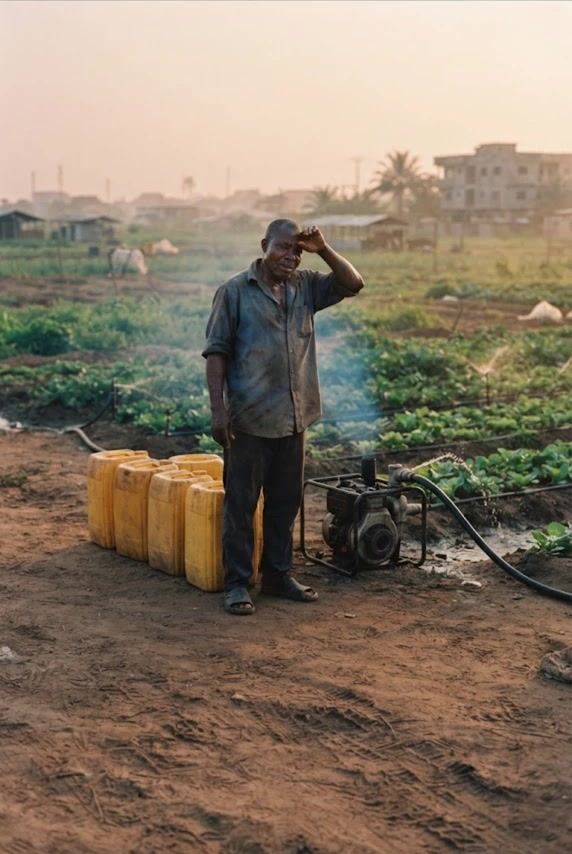
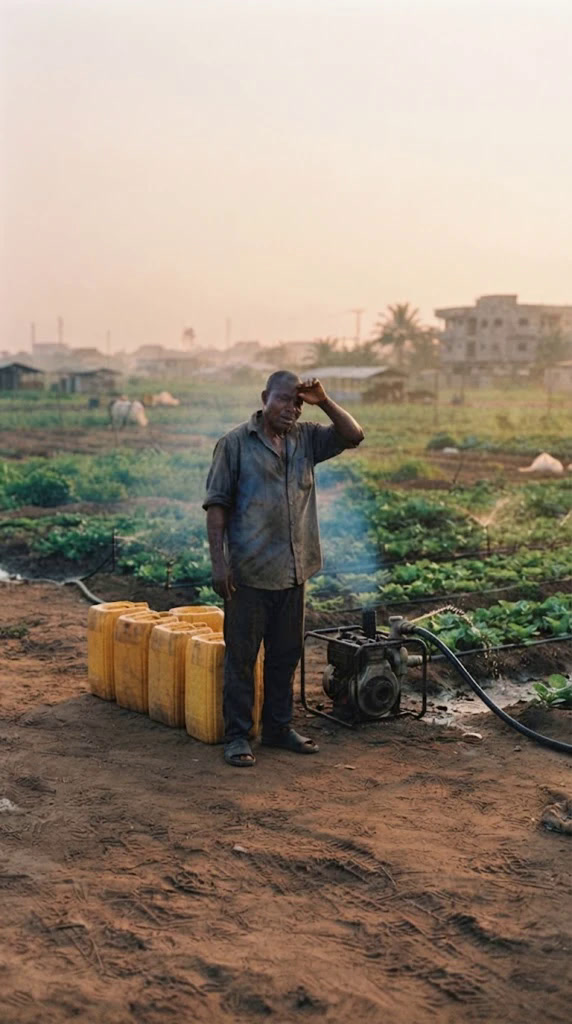
GroSolar: animatic v2 with every keyframe, safe-zone check, sign-off request
Ingest batch 3 (#6, #20, #21 fixes); old versions archived under
frames/gemini/original/. Add --safecheck to the renderer (text/UI vs the
TikTok/Reels zones, sampled every 0.1 s) and fix what it found: end-card
sizing and small print, phone height and drift at 1.9x, receipt entry path,
#16 super on one line. Board shows v2, all keyframes and the fixed frames.
Add SIGNOFF_REQUEST.md and animatic_v2_vo.srt.

Claude-Session: https://claude.ai/code/session_01JNp12VsUA157dhJM7Ds1Zv

diff --git a/projects/grosolar-switch-off/style-frames/index.html b/projects/grosolar-switch-off/style-frames/index.html
@@ -79,6 +79,11 @@ section.act { display: grid; gap: 16px; }
 .anim-notes { display: grid; gap: 10px; font-size: 14px; color: var(--muted); max-width: 62ch; min-width: 0; }
 .anim-notes p { margin: 0; }
 .anim-notes b { color: var(--ink); }
+.kf { display: grid; grid-template-columns: repeat(auto-fill, minmax(92px, 1fr)); gap: 10px; }
+.kf figure { margin: 0; display: grid; gap: 4px; min-width: 0; }
+.kf img { width: 100%; max-width: 100%; aspect-ratio: 9 / 16; object-fit: cover; border-radius: 8px; display: block; background: #0A1424; }
+.kf figcaption { font-size: 12px; color: var(--muted); font-variant-numeric: tabular-nums; }
+.kf figcaption b { color: var(--ink); }
 @media (max-width: 640px) { .anim-row { grid-template-columns: 1fr; } .anim-row video { max-width: 320px; } }
 .stages { list-style: none; margin: 0; padding: 0; display: grid; grid-template-columns: repeat(auto-fit, minmax(190px, 1fr)); gap: 10px; counter-reset: st; }
 .stages li { counter-increment: st; border: 1px solid var(--line); border-radius: 12px; padding: 12px 14px; display: grid; gap: 4px; align-content: start; min-width: 0; }
@@ -241,8 +246,8 @@ figcaption p { margin: 0; color: var(--muted); }
     <div class="chips">
       <span class="chip ok">Brand colours and wording from grosolar.co</span>
       <span class="chip tbc">Logo: placeholder until SVG arrives</span>
-      <span class="chip ok">Stage 3 · Animatic v1</span>
-      <span class="chip tbc">Files to resend: #1, #2, #4, #17, #18, #6, #20, #21</span>
+      <span class="chip ok">Stage 3 · Animatic v2, every keyframe in</span>
+      <span class="chip tbc">Awaiting GroSolar sign-off</span>
       <span class="chip tbc">Farm and factory: not yet confirmed as GroSolar customers</span>
 
     </div>
@@ -287,14 +292,36 @@ figcaption p { margin: 0; color: var(--muted); }
   </section>
 
   <section class="panel anim">
-    <h2>Animatic v1 · 60 s · 1080×1920 · 30 fps</h2>
+    <h2>Animatic v2 · 60 s · 1080×1920 · 30 fps</h2>
     <div class="anim-row">
-      <video controls playsinline preload="metadata" poster="animatic_v1_poster.jpg" src="animatic_v1.mp4" aria-label="GroSolar Switch Off animatic v1"></video>
+      <video controls playsinline preload="metadata" poster="animatic_v2_poster.jpg" src="animatic_v2.mp4" aria-label="GroSolar Switch Off animatic v2"></video>
       <div class="anim-notes">
         <p><b>For GroSolar sign-off.</b> Gemini stills with slow Ken Burns moves, code-built screens and supers, and the VO and dialogue as on-screen captions (no voice yet). Before/after pairs share framing and moves, so the payoffs match-cut.</p>
-        <p><b>Still placeholders:</b> #1, #2, #4, #17, #18 (approved, files not received). <b>Old versions in use:</b> #6, #20, #21 (fixes approved, files not received).</p>
+        <p><b>Every keyframe is in.</b> No placeholders. All frames are Gemini's 572×1024 on-screen captures; full-size downloads replace them at sign-off.</p>
+        <p><b>Checks:</b> every caption, super, button and end-card line stays out of the TikTok/Reels zones (sampled every 0.1 s). The only exception is the fuel receipt for one frame as it's flicked off screen.</p>
         <p><b>Open for GroSolar:</b> farm and factory scenes, the WhatsApp number (marked TO CONFIRM on the end card), the logo SVG, and real app screens for #18.</p>
       </div>
+    </div>
+  </section>
+
+  <section class="panel">
+    <h2>All keyframes · Stage 2 complete (animatic quality)</h2>
+    <div class="kf">
+      <figure><img src="previews/kf/01.jpg" alt="Shot #1: Generator ON" loading="lazy"><figcaption><b>#1</b> 0:00 · Generator ON</figcaption></figure>
+      <figure><img src="previews/kf/02.jpg" alt="Shot #2: Switch off" loading="lazy"><figcaption><b>#2</b> 0:02 · Switch off</figcaption></figure>
+      <figure><img src="previews/kf/03.jpg" alt="Shot #3: Home, cut" loading="lazy"><figcaption><b>#3</b> 0:04 · Home, cut</figcaption></figure>
+      <figure><img src="previews/kf/04.jpg" alt="Shot #4: Compound" loading="lazy"><figcaption><b>#4</b> 0:06 · Compound</figcaption></figure>
+      <figure><img src="previews/kf/05.jpg" alt="Shot #5: Barbershop" loading="lazy"><figcaption><b>#5</b> 0:09 · Barbershop</figcaption></figure>
+      <figure><img src="previews/kf/06.jpg" alt="Shot #6: Farm" loading="lazy"><figcaption><b>#6</b> 0:11 · Farm</figcaption></figure>
+      <figure><img src="previews/kf/07.jpg" alt="Shot #7: Factory" loading="lazy"><figcaption><b>#7</b> 0:14 · Factory</figcaption></figure>
+      <figure><img src="previews/kf/09.jpg" alt="Shot #9: Too cost" loading="lazy"><figcaption><b>#9</b> 0:19 · Too cost</figcaption></figure>
+      <figure><img src="previews/kf/11b.jpg" alt="Shot #11–16: Phone plate" loading="lazy"><figcaption><b>#11–16</b> 0:24 · Phone plate</figcaption></figure>
+      <figure><img src="previews/kf/17.jpg" alt="Shot #17: Installation" loading="lazy"><figcaption><b>#17</b> 0:38 · Installation</figcaption></figure>
+      <figure><img src="previews/kf/18.jpg" alt="Shot #18: Activation" loading="lazy"><figcaption><b>#18</b> 0:41 · Activation</figcaption></figure>
+      <figure><img src="previews/kf/19.jpg" alt="Shot #19: Home, lit" loading="lazy"><figcaption><b>#19</b> 0:44 · Home, lit</figcaption></figure>
+      <figure><img src="previews/kf/20.jpg" alt="Shot #20: Barbershop" loading="lazy"><figcaption><b>#20</b> 0:46 · Barbershop</figcaption></figure>
+      <figure><img src="previews/kf/21.jpg" alt="Shot #21: Farm" loading="lazy"><figcaption><b>#21</b> 0:48 · Farm</figcaption></figure>
+      <figure><img src="previews/kf/22.jpg" alt="Shot #22: Factory" loading="lazy"><figcaption><b>#22</b> 0:51 · Factory</figcaption></figure>
     </div>
   </section>
 
@@ -305,14 +332,14 @@ figcaption p { margin: 0; color: var(--muted); }
 
       <figure class="card">
         <div class="frame">
-          <img class="shot" src="previews/01-generator.jpg" alt="Macro of a generator control panel with a glowing round switch">
-          <span class="lowres">Low-res preview</span>
+          <img class="shot" src="previews/kf/02.jpg" alt="Dad's hand flips the generator switch to OFF">
+          <span class="lowres">Gemini</span>
           <div class="shade-top"></div>
           <p class="super">What if you never had to switch it <em>on</em> again?</p>
           <div class="safe"></div>
         </div>
         <figcaption>
-          <div class="beat"><b>#1–2 · 0:00–0:04</b> Hook <span class="tag">AI draft</span></div>
+          <div class="beat"><b>#1–2 · 0:00–0:04</b> Hook <span class="tag gem">Gemini</span></div>
           <p>Roar, the hand flips the switch, dead silence, the line lands. The round switch is the object we carry through the film.</p>
         </figcaption>
       </figure>
@@ -349,8 +376,8 @@ figcaption p { margin: 0; color: var(--muted); }
 
       <figure class="card">
         <div class="frame">
-          <img class="shot" src="previews/gemini-06-farm-before.jpg" alt="Tired farmer beside yellow jerrycans and a smoking diesel water pump in a vegetable field">
-          <span class="lowres">Gemini draft · bars cropped</span>
+          <img class="shot" src="previews/kf/06.jpg" alt="Tired farmer beside yellow jerrycans and a smoking diesel water pump in a vegetable field">
+          <span class="lowres">Gemini · fixed</span>
           <div class="shade-top"></div>
           <p class="super">Diesel today.<br><em>Diesel tomorrow.</em></p>
           <span class="dram">Dramatisation</span>
@@ -358,7 +385,7 @@ figcaption p { margin: 0; color: var(--muted); }
         </div>
         <figcaption>
           <div class="beat"><b>#6 · 0:11–0:14</b> Farm <span class="tag gem">Gemini</span><span class="tag tbc">TBC: farms served?</span></div>
-          <p>Jerrycans and a smoking diesel pump, farmer wiping his brow. Black bars cropped, so the top needs extending for the final. Fallback if GroSolar doesn't serve farms: a pharmacy keeping its medicine fridge on a gen.</p>
+          <p>Jerrycans and a smoking diesel pump, farmer wiping his brow. Bars fixed in Gemini by extending sky and soil. Fallback if GroSolar doesn't serve farms: a pharmacy keeping its medicine fridge on a gen.</p>
         </figcaption>
       </figure>
 
@@ -531,8 +558,8 @@ figcaption p { margin: 0; color: var(--muted); }
 
       <figure class="card">
         <div class="frame">
-          <img class="shot" src="previews/gemini-20-barbershop-after.jpg" alt="Same barber and boy, bulb on, the boy smiling at a finished cut; solar panels on the neighbour's roof and the generator covered outside">
-          <span class="lowres">Gemini draft · bar cropped</span>
+          <img class="shot" src="previews/kf/20.jpg" alt="Same barber and boy, bulb on, the boy smiling at a finished cut; solar panels on the neighbour's roof and the generator covered outside">
+          <span class="lowres">Gemini · fixed</span>
           <div class="shade-bot"></div>
           <div class="cap"><span class="who">Customer</span><span class="line">"Correct!"</span></div>
           <span class="dram">Dramatisation</span>
@@ -540,20 +567,20 @@ figcaption p { margin: 0; color: var(--muted); }
         </div>
         <figcaption>
           <div class="beat"><b>#20 · 0:46–0:48</b> Barbershop, payoff <span class="tag gem">Gemini</span></div>
-          <p>Same barber, boy and framing as #5: bulb on, cut finished, generator covered outside, panels on the neighbour's roof. The barber still holds the phone torch; remove it in the regen.</p>
+          <p>Same barber, boy and framing as #5: bulb on, cut finished, generator covered outside, panels on the neighbour's roof. Fixed: torch gone, his hand rests on the boy's shoulder.</p>
         </figcaption>
       </figure>
 
       <figure class="card">
         <div class="frame">
-          <img class="shot" src="previews/gemini-21-farm-after.jpg" alt="Smiling farmer beside a small solar array, water flowing from a pump into the vegetable beds">
-          <span class="lowres">Gemini draft · bars cropped</span>
+          <img class="shot" src="previews/kf/21.jpg" alt="Smiling farmer beside a small solar array, water flowing from a pump into the vegetable beds">
+          <span class="lowres">Gemini · fixed</span>
           <span class="dram">Dramatisation</span>
           <div class="safe"></div>
         </div>
         <figcaption>
-          <div class="beat"><b>#21 · 0:48–0:51</b> Farm, payoff <span class="tag gem">Gemini</span><span class="tag tbc">Regen: electric pump</span><span class="tag tbc">TBC: farms served?</span></div>
-          <p>Smiling farmer, small array, water flowing. The pump is still the diesel one and the jerrycans are still there, which contradicts the story: regenerate with an electric solar pump and no fuel cans.</p>
+          <div class="beat"><b>#21 · 0:48–0:51</b> Farm, payoff <span class="tag gem">Gemini</span><span class="tag tbc">TBC: farms served?</span></div>
+          <p>Fixed: a blue electric pump cabled to the array, no jerrycans.</p>
         </figcaption>
       </figure>
 

diff --git a/projects/grosolar-switch-off/animatic/index.html b/projects/grosolar-switch-off/animatic/index.html
@@ -58,7 +58,7 @@ body.render #stage { transform: none !important; }
 .vo b { flex: none; font-size: 24px; letter-spacing: 3px; color: var(--navy); background: var(--yellow); padding: 8px 14px; border-radius: 10px; }
 
 .dram { position: absolute; left: 76px; bottom: 395px; font-weight: 500; font-size: 26px; letter-spacing: .5px; color: rgba(255,255,255,.75); }
-.tbc-bug { position: absolute; right: 30px; top: 30px; font-weight: 700; font-size: 24px; color: #fff; background: rgba(200,50,30,.85); padding: 8px 14px; border-radius: 10px; }
+.tbc-bug { position: absolute; right: 150px; top: 30px; font-weight: 700; font-size: 24px; color: #fff; background: rgba(200,50,30,.85); padding: 8px 14px; border-radius: 10px; }
 
 /* Slate bug for review copies */
 #slate { position: absolute; left: 30px; top: 30px; z-index: 50; font: 600 26px/1 var(--font); color: #fff; background: rgba(0,0,0,.5); padding: 10px 16px; border-radius: 10px; font-variant-numeric: tabular-nums; letter-spacing: .5px; }
@@ -167,13 +167,13 @@ body.showsafe #safe { display: block; }
 
 /* End card */
 .endbg { position: absolute; inset: 0; background: radial-gradient(860px 640px at 50% 28%, rgba(255,151,51,.38), rgba(255,151,51,0) 70%), var(--navy); }
-.end { position: absolute; inset: 0; display: grid; justify-items: center; align-content: start; text-align: center; padding: 780px 80px 0; gap: 44px; color: #fff; transform-origin: 50% 40%; }
-.end h3 { margin: 0; font-weight: 800; font-size: 92px; line-height: 1.02; }
-.end .sub { font-weight: 600; font-size: 40px; line-height: 1.3; color: #CFE0F5; }
+.end { position: absolute; inset: 0; display: grid; justify-items: center; align-content: start; text-align: center; padding: 770px 150px 0 130px; gap: 30px; color: #fff; transform-origin: 50% 40%; }
+.end h3 { margin: 0; font-weight: 800; font-size: 80px; line-height: 1.04; }
+.end .sub { font-weight: 600; font-size: 36px; line-height: 1.3; color: #CFE0F5; }
 .end .cta { display: grid; gap: 22px; justify-items: center; }
-.end .cta .btn { padding: 34px 70px; font-size: 42px; }
-.end .cta small { font-weight: 600; font-size: 36px; color: #fff; font-variant-numeric: tabular-nums; }
-.end .fine { position: absolute; left: 0; right: 0; bottom: 395px; font-weight: 500; font-size: 24px; color: rgba(255,255,255,.55); }
+.end .cta .btn { padding: 30px 60px; font-size: 40px; }
+.end .cta small { font-weight: 600; font-size: 32px; color: #fff; font-variant-numeric: tabular-nums; }
+.fine { position: absolute; z-index: 2; text-align: center; left: 130px; right: 150px; bottom: 395px; font-weight: 500; font-size: 24px; color: rgba(255,255,255,.55); }
 
 /* Preview controls */
 #controls { height: 120px; display: grid; grid-template-rows: auto auto; gap: 8px; padding: 10px 20px; border-top: 1px solid var(--ui-line); }

diff --git a/projects/grosolar-switch-off/animatic/animatic.js b/projects/grosolar-switch-off/animatic/animatic.js
@@ -255,7 +255,7 @@
     if (PHOTO && PQ.matte) { matte = h('div', 'media', `<img src="frames/${TL.phoneShot}.matte.png" alt="">`); matte.style.transformOrigin = media.style.transformOrigin; layer.appendChild(matte); }
     screen.appendChild(h('div', 'urlbar', 'grosolar.co'));
     const PUSH = TL.phonePush || 1.6, CY = TL.phoneCenterY || 918;
-    const pushAt = t => PHOTO ? { s: PUSH * lerp(1, 1.04, seg(t, t0, t1)), D: [540 - C[0], CY - C[1]] } : { s: 1, D: [0, 0] };
+    const pushAt = t => PHOTO ? { s: PUSH * lerp(1, 1.02, seg(t, t0, t1)), D: [540 - C[0], CY - C[1]] } : { s: 1, D: [0, 0] };
     const quadAt = t => { const { s, D } = pushAt(t); return srcQuad.map(([x, y]) => [C[0] + D[0] + s * (x - C[0]), C[1] + D[1] + s * (y - C[1])]); };
     const tileImg = id => available.has(id) ? `background-image:url(frames/${id}.jpg)` : 'background:#6B7C93';
     const ICON = {
@@ -313,8 +313,8 @@
     // Top-slot overlays (super or VO) per shot
     const tops = shots.map(s => {
       const els = [];
-      if (s.vo) els.push([h('div', 'vo top', `<b>VO</b><span>${s.vo}</span>`), s.voAt ?? 0.2]);
-      if (s.sup) { const p = h('p', 'super on-light', s.sup); p.style.cssText = s.vo ? 'top:250px;font-size:48px' : 'top:110px;font-size:76px'; els.push([p, s.supAt ?? 0.3]); }
+      if (s.vo) { const v = h('div', 'vo top', `<b>VO</b><span>${s.vo}</span>`); v.style.top = '100px'; els.push([v, s.voAt ?? 0.2]); }
+      if (s.sup) { const p = h('p', 'super on-light', s.sup); p.style.cssText = s.vo ? 'top:220px;font-size:34px;right:140px;white-space:nowrap' : 'top:110px;font-size:76px'; els.push([p, s.supAt ?? 0.3]); }
       els.forEach(([el]) => { el.style.opacity = 0; layer.appendChild(el); });
       return els;
     });
@@ -395,7 +395,7 @@
         const fly = E.inOut(seg(t, 30.6, 31.2)), fold = E.in(seg(t, 31.2, 31.55));
         receipt.style.left = (fx - 165) + 'px'; receipt.style.top = (fy - 200) + 'px';
         receipt.style.opacity = (seg(t, 30.6, 30.7) * (1 - seg(t, 31.45, 31.55))).toFixed(3);
-        receipt.style.transform = `translate(${lerp(330, 0, fly).toFixed(1)}px, ${lerp(-560, 0, fly).toFixed(1)}px) rotate(${lerp(18, 0, fly).toFixed(2)}deg) scale(${lerp(1, 0.6, fly) * lerp(1, 0.9, fold)}, ${(lerp(1, 0.6, fly) * lerp(1, 0.05, fold)).toFixed(4)})`;
+        receipt.style.transform = `translate(${lerp(120, 0, fly).toFixed(1)}px, ${lerp(-620, 0, fly).toFixed(1)}px) rotate(${lerp(18, 0, fly).toFixed(2)}deg) scale(${lerp(1, 0.6, fly) * lerp(1, 0.9, fold)}, ${(lerp(1, 0.6, fly) * lerp(1, 0.05, fold)).toFixed(4)})`;
         q('energy', 'fuel').classList.toggle('hot', t >= 31.45);
         q('energy', 'fuelv').style.opacity = seg(t, 31.45, 31.6).toFixed(2);
         q('energy', 'fuelt').style.opacity = seg(t, 31.55, 31.7).toFixed(2);

diff --git a/projects/grosolar-switch-off/animatic/timeline.js b/projects/grosolar-switch-off/animatic/timeline.js
@@ -58,7 +58,7 @@ window.TIMELINE = {
   // Falls back to a code-built phone on the #11a plate when 11b (or its quad from screen_quad.py) is missing.
   phoneShot: '11b',
   phonePush: 1.9,
-  phoneCenterY: 960,
+  phoneCenterY: 925,
   phonePlate: '11a',
   whatsapp: '+234 705 370 0000',
   whatsappConfirmed: false,

diff --git a/projects/grosolar-switch-off/style-frames/GENERATION_LEDGER.md b/projects/grosolar-switch-off/style-frames/GENERATION_LEDGER.md
@@ -59,8 +59,10 @@ All new renders follow `LOOK_BIBLE.md` and use the numbered prompts in `PROMPTS.
 | #9 "Solar? E too cost." | PROMPTS #9 (fresh) | C · Market | `frames/gemini/09_too_cost_market.png` (from .webp) | 572×1024 capture | **Approved.** Real brand names stripped off boxes and batteries in Gemini; tag blank for the code-built "₦ ???,???" stamp. In the animatic |
 | #11a street plate | PROMPTS #11a (fresh) | D · Plates | `frames/gemini/11a_street_plate.png` (from .webp) | 572×1024 capture | **Approved.** Fallback plate (not used while #11b works) |
 | #11b hand and phone | PROMPTS #11b (edit of #11a) | D · Plates | `frames/gemini/11b_hand_phone.png` (from .webp) | 572×1024 capture | **Approved.** Gemini wouldn't enlarge the phone: digital 1.6× push-in centred on the phone in the edit. Screen corners and a thumb matte from `animatic/screen_quad.py`; all #11–#16 screens are pinned into it. In the animatic |
-| #20 barbershop, after (fix) | PROMPTS #20 fix | E · Barbershop | `20_barbershop_after.png` | 572×1024 capture | **Approved** (torch gone, hand on the boy's shoulder, ceiling extended). **File not received yet: resend.** Animatic still uses the old #20 |
-| #6 farm, before (fix) | PROMPTS #6 fix | F · Farm | `06_farm_before.png` | 572×1024 capture | **Approved** (bars removed by extending sky and soil). **File not received yet: resend.** Animatic still uses the old cropped #6 |
-| #21 farm, after (fix) | PROMPTS #21 fix | F · Farm | `21_farm_after.png` | 572×1024 capture | **Approved** (blue electric pump cabled to the array, no jerrycans, no bars). **File not received yet: resend.** Animatic still uses the old #21 (diesel pump) |
+| #20 barbershop, after (fix) | PROMPTS #20 fix | E · Barbershop | `20_barbershop_after.png` | 572×1024 capture | **Approved** (torch gone, hand on the boy's shoulder, ceiling extended). **Received 2026-10-06 (resent), ingested.** Old version archived as `frames/gemini/original/superseded-gemini-20-barbershop-after.jpg` |
+| #6 farm, before (fix) | PROMPTS #6 fix | F · Farm | `06_farm_before.png` | 572×1024 capture | **Approved** (bars removed by extending sky and soil). **Received 2026-10-06 (resent), ingested.** Old version archived as `frames/gemini/original/superseded-gemini-06-farm-before.jpg` |
+| #21 farm, after (fix) | PROMPTS #21 fix | F · Farm | `21_farm_after.png` | 572×1024 capture | **Approved** (blue electric pump cabled to the array, no jerrycans, no bars). **Received 2026-10-06 (resent), ingested.** Old version archived as `frames/gemini/original/superseded-gemini-21-farm-after.jpg` |
 
 Note: the first ingest of #3 and #19 wrongly cropped their dark bottoms as "bars". `ingest.sh` now only treats flat black rows (max luma < 10) as bars, and both were re-ingested uncropped.
+
+Stage 2 complete at animatic quality on 2026-10-06: every photographic keyframe in PROMPTS.md is in `animatic/frames/`. Full-size downloads replace them at sign-off.

diff --git a/projects/grosolar-switch-off/SIGNOFF_REQUEST.md b/projects/grosolar-switch-off/SIGNOFF_REQUEST.md
@@ -1,0 +1,31 @@
+# Sign-off request: GroSolar "Switch Off" animatic v2
+
+**To:** GroSolar marketing
+**Attached:** `animatic_v2.mp4` (60 s, vertical 1080×1920, for Instagram Reels, TikTok, WhatsApp Status and YouTube)
+
+---
+
+Hi [name],
+
+Attached is the animatic for the GroSolar "Switch Off" ad. It's a 60-second vertical edit built from still frames, with the on-screen text, the sign-up flow and the end card in place. The voice-over and dialogue appear as captions only; we record real voices after sign-off. The people and places are AI-generated and labelled "Dramatisation".
+
+The story: a power cut sends homes, shops, farms and factories back to their generators. Dad finds solar too expensive. GroSolar shows there's no large upfront cost. The viewer sees the real grosolar.co sign-up on a phone, a partner installs the panels, and every generator goes quiet. It ends on "Switch off the gen. Switch on GroSolar."
+
+**Please approve or correct:**
+
+1. **The script and every claim.** All wording comes from grosolar.co: "No Large Upfront Costs", "Predictable Monthly Cost", "Installed by GroSolar's partner solar providers", "Pay small small, every month". No prices, savings figures or customer numbers are shown.
+2. **Farms and factories.** The site lists households and businesses only. Do you serve farms/agribusiness and commercial & industrial sites? If not, we replace those scenes (0:11–0:16 and 0:48–0:53) with other business types, such as a pharmacy or a bakery.
+3. **The WhatsApp number on the end card:** +234 705 370 0000. Is it right, and should it appear?
+4. **The sign-up flow (0:24–0:38).** It follows your four-step pre-qualification form: about you, home owner or business, energy use, location and preferred provider, then the proposal. Is the order and wording right? The name and phone number shown are examples.
+5. **The partner installers (0:38–0:44)** are shown in unbranded uniforms. Should we keep them generic, or may we show a partner's name or logo?
+
+**Please send:**
+
+6. **Your logo as SVG files** (full colour and the version for dark backgrounds). The animatic uses a placeholder.
+7. **Screenshots of the GroSolar NG app** for the shot where the installer hands over the phone (0:41–0:44). It currently says "App screen from GroSolar to come".
+8. **Who gives final approval,** and any other brand rules we should follow.
+
+Once you approve, we animate the key scenes, record the English/Pidgin voice-over, add music, and deliver the 60 s master plus 30 s and 15 s cut-downs.
+
+Thanks,
+[your name]
